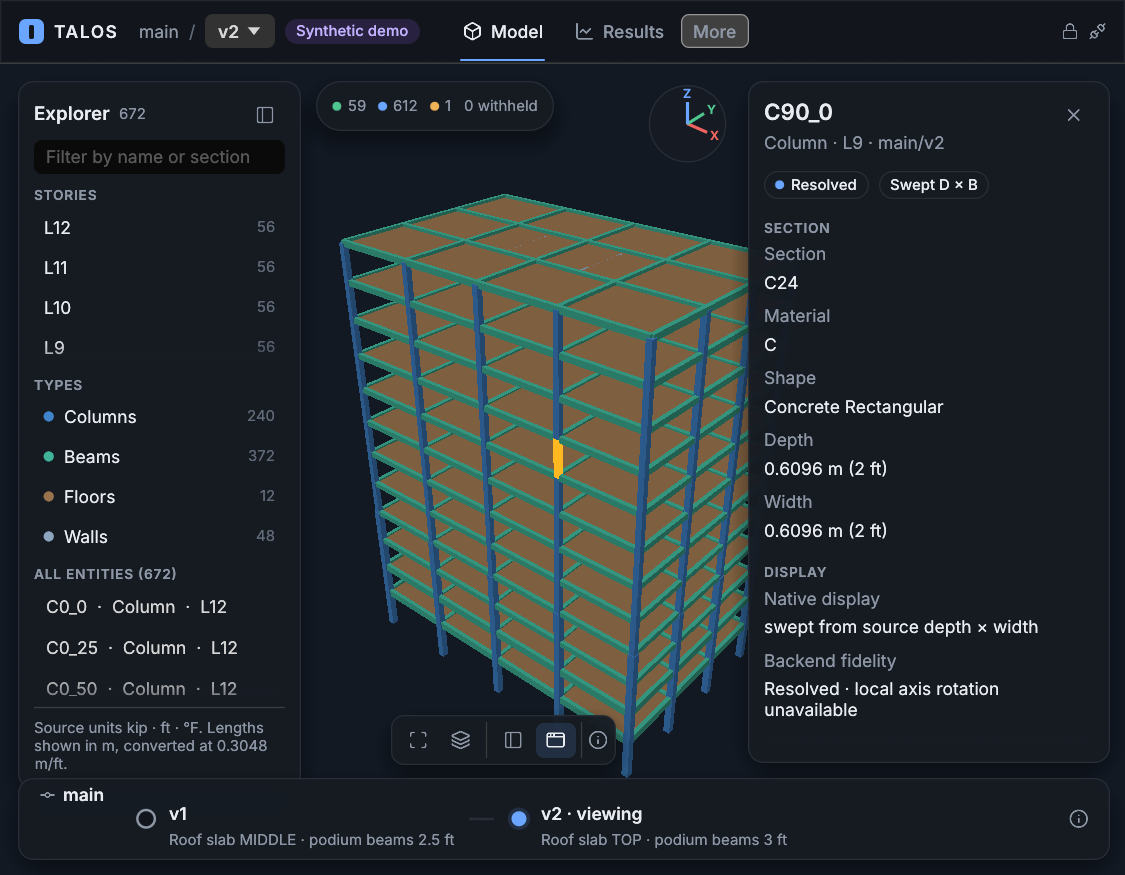
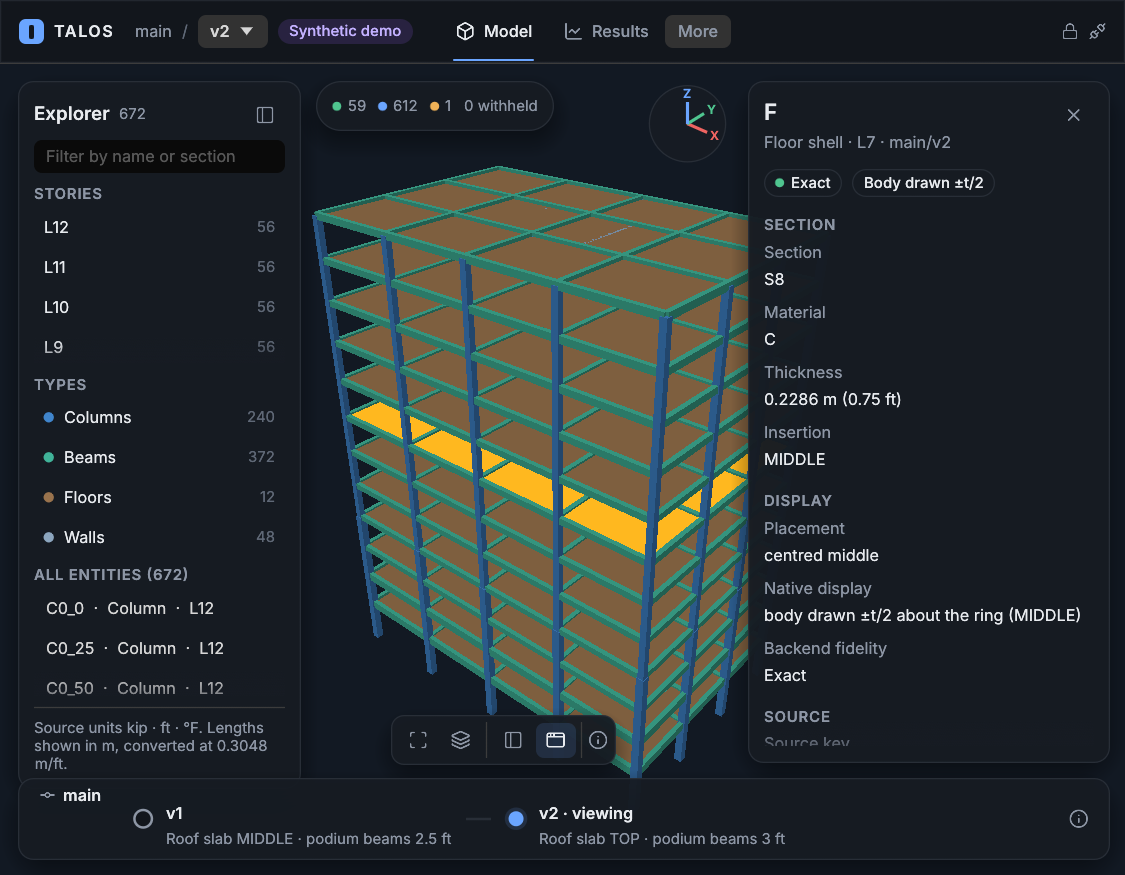
APP-01A.2: follow the design table: floating by default, 12/13/15/18, calm surfaces
Floating cards over an edge-to-edge canvas are the default; Docked stays a
toolbar toggle. The type scale is 12/13/15/18 with nothing below 12 pt.
Results selectors and cards lose their borders and inspector rows are
separated by space. Tests start floating and switch to docked; captures
re-taken in that order. Grid floor and gradient stay out (renderer change).

Claude-Session: https://claude.ai/code/session_01V2VcJ8ARhG6CxnTY4XGPdz

diff --git a/apps/talos-native/src/ui_tests.rs b/apps/talos-native/src/ui_tests.rs
@@ -480,25 +480,23 @@ fn inspector_text_stays_inside_its_panel_in_the_app() {
         } else {
             "centred middle"
         };
-        // Docked: between the panel's splitter and the window edge.
-        let labels = inspector_labels(&harness);
-        let left = harness
-            .get_all_by_role(Role::Splitter)
-            .map(|splitter| splitter.rect().center().x)
-            .fold(f32::MIN, f32::max);
-        assert_within(&labels, left, 1280.0, version);
-        assert!(labels.iter().any(|(text, _)| text == expected), "{version}");
-        // Floating: inside the card, which sits inside the canvas margin.
-        harness.get_by_label("Floating panels").click();
-        settle(&mut harness);
+        // Floating (the default): inside the card, inside the canvas margin.
         let canvas = harness.get_by_label("3D model view").rect();
         let right = canvas.right() - crate::pages::model::MARGIN;
         let left = right - crate::pages::model::pane_widths(canvas.width()).1;
         let labels = inspector_labels(&harness);
         assert_within(&labels, left, right, &format!("{version} floating"));
         assert!(labels.iter().any(|(text, _)| text == expected), "{version}");
-        harness.get_by_label("Docked panels").click();
-        settle(&mut harness);
+        // Docked: between the panel's splitter and the window edge.
+        set_mode(&mut harness, "Docked panels");
+        let labels = inspector_labels(&harness);
+        let left = harness
+            .get_all_by_role(Role::Splitter)
+            .map(|splitter| splitter.rect().center().x)
+            .fold(f32::MIN, f32::max);
+        assert_within(&labels, left, 1280.0, &format!("{version} docked"));
+        assert!(labels.iter().any(|(text, _)| text == expected), "{version}");
+        set_mode(&mut harness, "Floating panels");
     }
 }
 
@@ -657,31 +655,29 @@ fn selected(harness: &Harness<'_, App>) -> Vec<usize> {
     state.model.selected(scope).to_vec()
 }
 
+fn set_mode(harness: &mut Harness<'_, App>, toggle: &str) {
+    harness.get_by_label(toggle).click();
+    settle(harness);
+}
+
 #[test]
 fn panel_modes_keep_the_selection_and_overlays_never_pick_through() {
     let mut harness = harness(LoadMode::Inline);
+    let toggled = |harness: &Harness<'_, App>, label: &str| {
+        harness.get_by_label(label).accesskit_node().toggled() == Some(Toggled::True)
+    };
+    // Floating is the default: cards over an edge-to-edge canvas.
+    assert_eq!(harness.state().state().model.panels, PanelMode::Floating);
+    assert!(toggled(&harness, "Floating panels"));
+    assert!(!toggled(&harness, "Docked panels"));
+    let canvas = harness.get_by_label("3D model view").rect();
+    assert!(canvas.width() > 1270.0, "{canvas:?}");
+
     select(&mut harness, "|F|L12");
     let slab = selected(&harness);
     assert_eq!(slab.len(), 1);
-    let toggle = |harness: &Harness<'_, App>, label: &str| {
-        harness.get_by_label(label).accesskit_node().toggled() == Some(Toggled::True)
-    };
-    assert!(toggle(&harness, "Docked panels"));
-    assert!(!toggle(&harness, "Floating panels"));
-
-    harness.get_by_label("Floating panels").click();
-    settle(&mut harness);
-    assert_eq!(harness.state().state().model.panels, PanelMode::Floating);
-    assert!(toggle(&harness, "Floating panels"));
-    assert_eq!(selected(&harness), slab, "the mode is presentation only");
-    assert!(present(&harness, "flat at declared face"));
-    assert!(present(&harness, "ALL ENTITIES (672)"));
-
-    // The canvas now spans the page under the cards.
-    let canvas = harness.get_by_label("3D model view").rect();
-    assert!(canvas.width() > 1270.0, "{canvas:?}");
-    // Empty card space, the version strip and the toolbar's gaps are not
-    // pick targets: a click there would otherwise pick or clear.
+    // Empty card space and the version strip are not pick targets: a click
+    // there would otherwise pick or clear.
     let close = harness.get_by_label("Hide inspector (I)").rect();
     let strip = harness.get_by_label("Version v1").rect();
     for at in [
@@ -702,11 +698,27 @@ fn panel_modes_keep_the_selection_and_overlays_never_pick_through() {
     click_at(&mut harness, at, egui::Modifiers::NONE);
     assert_eq!(selected(&harness), [column]);
 
-    harness.get_by_label("Docked panels").click();
-    settle(&mut harness);
+    // Docked keeps the selection and the content; the strip still blocks.
+    set_mode(&mut harness, "Docked panels");
     assert_eq!(harness.state().state().model.panels, PanelMode::Docked);
+    assert!(toggled(&harness, "Docked panels"));
+    assert_eq!(
+        selected(&harness),
+        [column],
+        "the mode is presentation only"
+    );
+    assert!(present(&harness, "ALL ENTITIES (672)"));
+    let docked = harness.get_by_label("3D model view").rect();
+    assert!(docked.width() < canvas.width() - 400.0, "{docked:?}");
+    let strip = harness.get_by_label("Version v1").rect();
+    click_at(
+        &mut harness,
+        egui::pos2(docked.right() - 40.0, strip.center().y),
+        egui::Modifiers::NONE,
+    );
     assert_eq!(selected(&harness), [column]);
-    assert!(present(&harness, "C0_0"));
+    set_mode(&mut harness, "Floating panels");
+    assert_eq!(selected(&harness), [column]);
 }
 
 #[test]
@@ -811,6 +823,7 @@ fn at_900_points_the_header_overflows_into_more_and_shortcuts_still_route() {
     }
     assert!(row.last().expect("items").right() <= 900.0);
     // The canvas keeps a usable width between the docked panes.
+    set_mode(&mut harness, "Docked panels");
     let canvas = harness.get_by_label("3D model view").rect();
     assert!(canvas.width() >= 380.0, "{canvas:?}");
 
@@ -858,6 +871,7 @@ fn results_selector_labels_come_before_their_controls() {
 #[test]
 fn shrinking_a_wide_window_to_900_points_narrows_the_docked_panes() {
     let mut harness = harness(LoadMode::Inline);
+    set_mode(&mut harness, "Docked panels");
     let wide = harness.get_by_label("3D model view").rect().width();
     harness.set_size(egui::vec2(900.0, 700.0));
     settle(&mut harness);

diff --git a/docs/native/evidence/app-01a2/capture_talos.py b/docs/native/evidence/app-01a2/capture_talos.py
@@ -5,9 +5,9 @@ Linux container only: Xvfb + Mesa lavapipe (software Vulkan), ImageMagick
 `import`, and real X11 input through XTest (libXtst). Public synthetic tower
 data only. Not Windows evidence: the owner's Windows check stays required.
 
-For each scale: Model docked, a real pick, the same pick with floating
-panels, Results, then the window resized to 900 x 700 points (Model,
-floating and docked).
+For each scale: Model with floating panels (the default), a real pick, the
+same pick docked, Results, then the window resized to 900 x 700 points
+(Model, docked and floating).
 Coordinates are logical points of the default 1280 x 800 layout.
 
     python3 -I capture_talos.py <talos-native binary> <out-dir>
@@ -92,31 +92,30 @@ for scale in ("1", "1.25", "1.5"):
         s = float(scale)
         width, height = round(1280 * s), round(800 * s)
         tag = f"{scale.replace('.', '_')}x"
-        shot(f"model-docked-{tag}", width, height)
-        # A column near the middle of the docked canvas: a real pick through
-        # the real viewport.
+        shot(f"model-floating-{tag}", width, height)
+        # A real pick through the real viewport, between the floating cards.
         click(handle, 600 * s, 430 * s)
         time.sleep(3)
-        shot(f"model-docked-picked-{tag}", width, height)
-        # The view toolbar's Floating panels toggle.
-        click(handle, 629 * s, 691 * s)
-        time.sleep(3)
         shot(f"model-floating-picked-{tag}", width, height)
+        # The view toolbar's Docked panels toggle (floating layout).
+        click(handle, 595 * s, 691 * s)
+        time.sleep(3)
+        shot(f"model-docked-picked-{tag}", width, height)
         # Results tab (Xvfb has no window manager to give keyboard focus).
         click(handle, 640 * s, 26 * s)
         time.sleep(3)
         shot(f"results-{tag}", width, height)
-        # Back to Model (still floating: the mode is kept), then the 900 x 700
-        # minimum, floating and docked.
+        # Back to Model (still docked: the mode is kept), then the 900 x 700
+        # minimum, docked and floating.
         click(handle, 548 * s, 26 * s)
         time.sleep(2)
         resize_top_level(handle, 900 * s, 700 * s)
         time.sleep(4)
-        shot(f"model-900-floating-{tag}", round(900 * s), round(700 * s))
-        # The toolbar's Docked panels toggle at 900 x 700, floating layout.
-        click(handle, 410 * s, 592 * s)
-        time.sleep(3)
         shot(f"model-900-docked-{tag}", round(900 * s), round(700 * s))
+        # The toolbar's Floating panels toggle at 900 x 700, docked layout.
+        click(handle, 439 * s, 591 * s)
+        time.sleep(3)
+        shot(f"model-900-floating-{tag}", round(900 * s), round(700 * s))
     finally:
         app.terminate()
         app.wait(timeout=10)

diff --git a/apps/talos-native/src/pages/results.rs b/apps/talos-native/src/pages/results.rs
@@ -47,7 +47,6 @@ fn group<R>(ui: &mut egui::Ui, label: &str, add: impl FnOnce(&mut egui::Ui) -> R
     let tokens = Tokens::of(ui);
     egui::Frame::new()
         .fill(tokens.card)
-        .stroke(egui::Stroke::new(1.0, tokens.border))
         .corner_radius(10)
         .inner_margin(egui::Margin::symmetric(10, 4))
         .show(ui, |ui| {
@@ -190,7 +189,6 @@ fn chart_card(ui: &mut egui::Ui, document: &Document, query: &ResultsQuery) {
     let tokens = Tokens::of(ui);
     egui::Frame::new()
         .fill(tokens.card)
-        .stroke(egui::Stroke::new(1.0, tokens.border))
         .corner_radius(tokens.card_radius)
         .inner_margin(egui::Margin::symmetric(22, 18))
         .show(ui, |ui| {
@@ -279,7 +277,6 @@ fn empty_state(ui: &mut egui::Ui, plot: egui::Rect, document: &Document, query: 
         |ui| {
             egui::Frame::new()
                 .fill(tokens.card)
-                .stroke(egui::Stroke::new(1.0, tokens.border))
                 .corner_radius(tokens.card_radius)
                 .shadow(tokens.shadow)
                 .inner_margin(egui::Margin::symmetric(24, 18))

diff --git a/apps/talos-native/src/theme.rs b/apps/talos-native/src/theme.rs
@@ -104,10 +104,10 @@ impl Tokens {
     }
 }
 
-/// Body text is 14 pt: engineering values and warnings never drop below 12.
-pub const BODY: f32 = 14.0;
+/// The 12/13/15/18 scale: body text is 13 pt, and nothing (engineering
+/// values, warnings, section labels) drops below 12.
+pub const BODY: f32 = 13.0;
 pub const SMALL: f32 = 12.0;
-pub const LABEL: f32 = 11.0;
 pub const TITLE: f32 = 15.0;
 pub const NAME: f32 = 18.0;
 
@@ -168,12 +168,12 @@ pub fn install(ctx: &egui::Context) {
     });
 }
 
-/// A label in the uppercase section style (`SECTION`), 11 pt, muted.
+/// A label in the uppercase section style (`SECTION`), 12 pt, muted.
 pub fn section(ui: &mut egui::Ui, text: &str) {
     let tokens = Tokens::of(ui);
     ui.label(
         RichText::new(text.to_uppercase())
-            .size(LABEL)
+            .size(SMALL)
             .family(semibold())
             .extra_letter_spacing(0.6)
             .color(tokens.muted),

diff --git a/apps/talos-native/src/state.rs b/apps/talos-native/src/state.rs
@@ -128,8 +128,8 @@ impl Session {
 
 /// How the Model workspace places its Explorer and Inspector.
 ///
-/// Docked panes never cover geometry; floating cards give the model the whole
-/// canvas. Both show the same content; neither is a permanent decision
+/// Floating cards (the default) give the model the whole canvas; docked
+/// panes never cover geometry. Both show the same content; neither is a permanent decision
 /// (owner, #52).
 #[derive(Clone, Copy, Debug, PartialEq, Eq)]
 pub enum PanelMode {
@@ -287,7 +287,7 @@ impl State {
             workspace: Workspace::Model,
             session: Session { project, document },
             model: ModelState {
-                panels: PanelMode::Docked,
+                panels: PanelMode::Floating,
                 explorer_open: true,
                 inspector_open: true,
                 story: None,

diff --git a/apps/talos-native/src/pages/model.rs b/apps/talos-native/src/pages/model.rs
@@ -1186,12 +1186,8 @@ fn property(ui: &mut egui::Ui, name: &str, value: &str) {
         );
         ui.add(value);
     });
-    let y = ui.cursor().top() - 2.0;
-    ui.painter().hline(
-        ui.max_rect().x_range(),
-        y,
-        egui::Stroke::new(1.0, tokens.border.gamma_multiply(0.6)),
-    );
+    // Rows are separated by space, not rules (calm surfaces, few borders).
+    ui.add_space(2.0);
 }
 
 /// The backend tier and reasons this native viewer mirrors; never upgraded by

diff --git a/docs/native/app-01a2-visual.md b/docs/native/app-01a2-visual.md
@@ -21,17 +21,21 @@ TALOS binary and the real GPU viewport. EtabExtension #467 stays HOLD. Tracks
 Inter is registered at three weights from one variable font: 400 body, 500
 controls, 600 titles.
 
-The type scale is:
+The type scale is 12/13/15/18:
 
 | Use | Size |
 |---|---|
-| Body | 14 |
-| Small | 12 |
-| Section labels | 11, uppercase |
+| Small and section labels (uppercase) | 12 |
+| Body | 13 |
 | Titles | 15 |
 | Entity names | 18 |
 
-Engineering values and warnings never go below 12 pt.
+Nothing (engineering values, warnings, labels) goes below 12 pt.
+
+Surfaces are calm, with one accent colour:
+- Results selectors and cards have no borders.
+- Inspector rows are separated by space, not rules.
+- The only remaining rule is the docked panes' edge.
 
 Dark and light tokens follow the system theme. The canvas keeps the
 renderer's own background. State is never shown by colour alone: every dot has
@@ -52,19 +56,27 @@ appears only on failure. Below 1100 pt:
 - Compare, History and Reports move into **More**, except the active workspace;
 - Ctrl+1…5 still reach every workspace.
 
-### Model: Docked or Floating, never over picking
+### Model: Floating or Docked, never picking through
 
-Docked and Floating are a presentation toggle in the view toolbar, not a
+Floating and Docked are a presentation toggle in the view toolbar, not a
 permanent mode. Both show the same Explorer and Inspector and keep the
 selection.
 
-- **Docked (default).** Side panes, so geometry is never covered. The panes cap
-  at a share of the window. At 900 pt the canvas keeps about 390 pt, including
-  after shrinking from a wider window.
-- **Floating.** Cards over a full-width canvas. A card, the toolbar, the
-  version strip, the fidelity chip and the gizmo each block clicks and drags
-  under them, so nothing picks or orbits through an overlay. The canvas still
-  picks everywhere else.
+- **Floating (default).** Explorer, Inspector and the view tools are cards with
+  margins, rounded corners and a soft shadow. The canvas runs edge to edge
+  underneath. A card, the toolbar, the version strip, the fidelity chip and the
+  gizmo each block clicks and drags under them, so nothing picks or orbits
+  through an overlay. The canvas still picks everywhere else.
+- **Docked.** Side panes, so geometry is never covered. The panes cap at a
+  share of the window. At 900 pt the canvas keeps about 390 pt, including after
+  shrinking from a wider window.
+
+**Known cost:** at 900 pt, Floating leaves about 360 pt between the cards, and
+the inspector card covers the right side of the model. Picking never goes
+through it, but the geometry is hidden until you orbit, close the card or
+switch to Docked. One way to fix this is for Fit to frame the model in the free
+area instead of the whole canvas. That is a camera change for a follow-up, and
+it is open for your decision against the "never over critical geometry" rule.
 
 ### Canvas overlays
 
@@ -119,11 +131,11 @@ values are plotted or invented.
 | Rule | Where it holds |
 |---|---|
 | Docked vs floating is not a permanent mode | Toolbar toggle; `PanelMode` is presentation-only; the test keeps the selection across both |
-| Never place the inspector over critical geometry or picking | Docked is the default. Floating cards and every overlay block picks under them (tested), and the canvas still picks outside them (tested) |
+| Never place the inspector over critical geometry or picking | Floating cards and every overlay block picks under them (tested), and the canvas still picks outside them (tested). Docked never covers geometry. At 900 pt, Floating does cover part of the model (see **Known cost**) |
 | 48 pt header target; validate at 900 pt and 100/125/150 % | One-row header (tested). 900 pt overflow, no overlaps, Ctrl+3 (tested). Real-binary captures at 1×, 1.25× and 1.5×, including 900 × 700 |
 | No microtext for engineering values | 12 pt floor for values and warnings |
 | Timeline: no invented data; synced with the header; no second controller | The strip sends the header's `SwitchVersion`; both reflect `session.requested()` (tested); the "no commit history" note is shown or named |
-| Renderer beautification is separate | `lab-viewport` is untouched in this PR |
+| Renderer beautification is separate | `lab-viewport` is untouched in this PR. The design table's grid floor and gradient canvas are therefore **not** here; they belong in that separate renderer change |
 | Real Windows screenshots before approving a polish PR | **Still required.** Everything here is Linux, Xvfb and lavapipe |
 
 ## Tests
@@ -132,8 +144,8 @@ There are 35 `talos-native` tests. The UI tests run the real `App` and
 `NativeModelView` through egui's AccessKit tree. Seven are new or rewritten
 for A.2:
 
-- panel modes keep the selection; overlays never pick through; the canvas still
-  picks outside them;
+- Floating is the default; panel modes keep the selection; overlays never pick
+  through in either mode; the canvas still picks outside them;
 - the version strip and the header picker act as one controller;
 - the explorer text filter and type filter;
 - at 900 pt: the More overflow, no header overlaps, shortcuts still route, and
@@ -149,9 +161,9 @@ chips.
 ## Evidence (`docs/native/evidence/app-01a2/`)
 
 - `capture_talos.py`: the real binary under Xvfb + Mesa lavapipe with real
-  XTest clicks, at 1, 1.25 and 1.5. It captures Model docked, a real pick, the
-  same pick floating, Results, then the window resized to 900 × 700 (floating,
-  then docked).
+  XTest clicks, at 1, 1.25 and 1.5. It captures Model floating (the default), a
+  real pick, the same pick docked, Results, then the window resized to
+  900 × 700 (docked, then floating).
 - `*.png`: those 18 frames, all public synthetic tower data.
 - `gate.sh.txt` and `gate-a2-<sha>.txt`: the clean-worktree gate.
 
